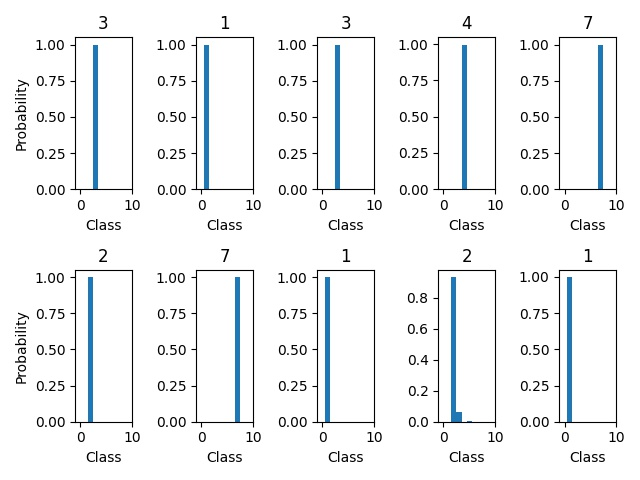
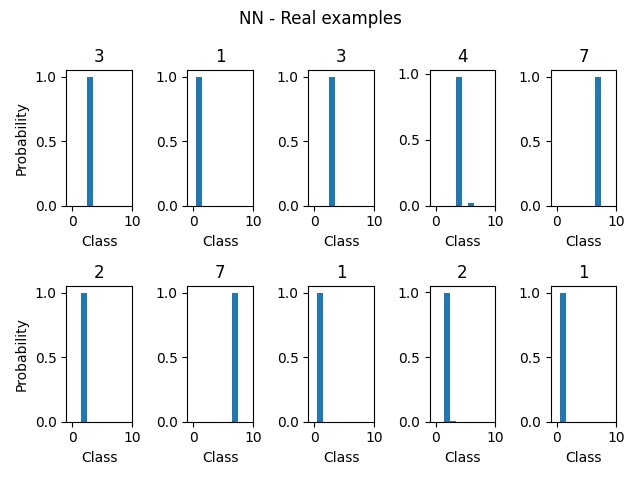
Update adversarial plots.

diff --git a/experiments/mnist_adversarial.py b/experiments/mnist_adversarial.py
@@ -70,6 +70,7 @@ def adversarial_examples():
         p = make_prediction(predictor, x_letters)
         a_probs[name] = p[0]
         plt.figure()
+        plt.suptitle(f"{name} - Adversarial examples", fontsize=12)
         for i in range(10):
             plt.subplot(2, 5, i + 1)
             plt.bar(list(range(10)), [v.item() for v in p[i]], width=1.0)
@@ -84,6 +85,7 @@ def adversarial_examples():
         p = make_prediction(predictor, batch[0])
 
         plt.figure()
+        plt.suptitle(f"{name} - Real examples", fontsize=12)
         for i in range(10):
             plt.subplot(2,5,i+1)
             plt.bar(list(range(10)), [v.item() for v in p[i]], width=1.0)
